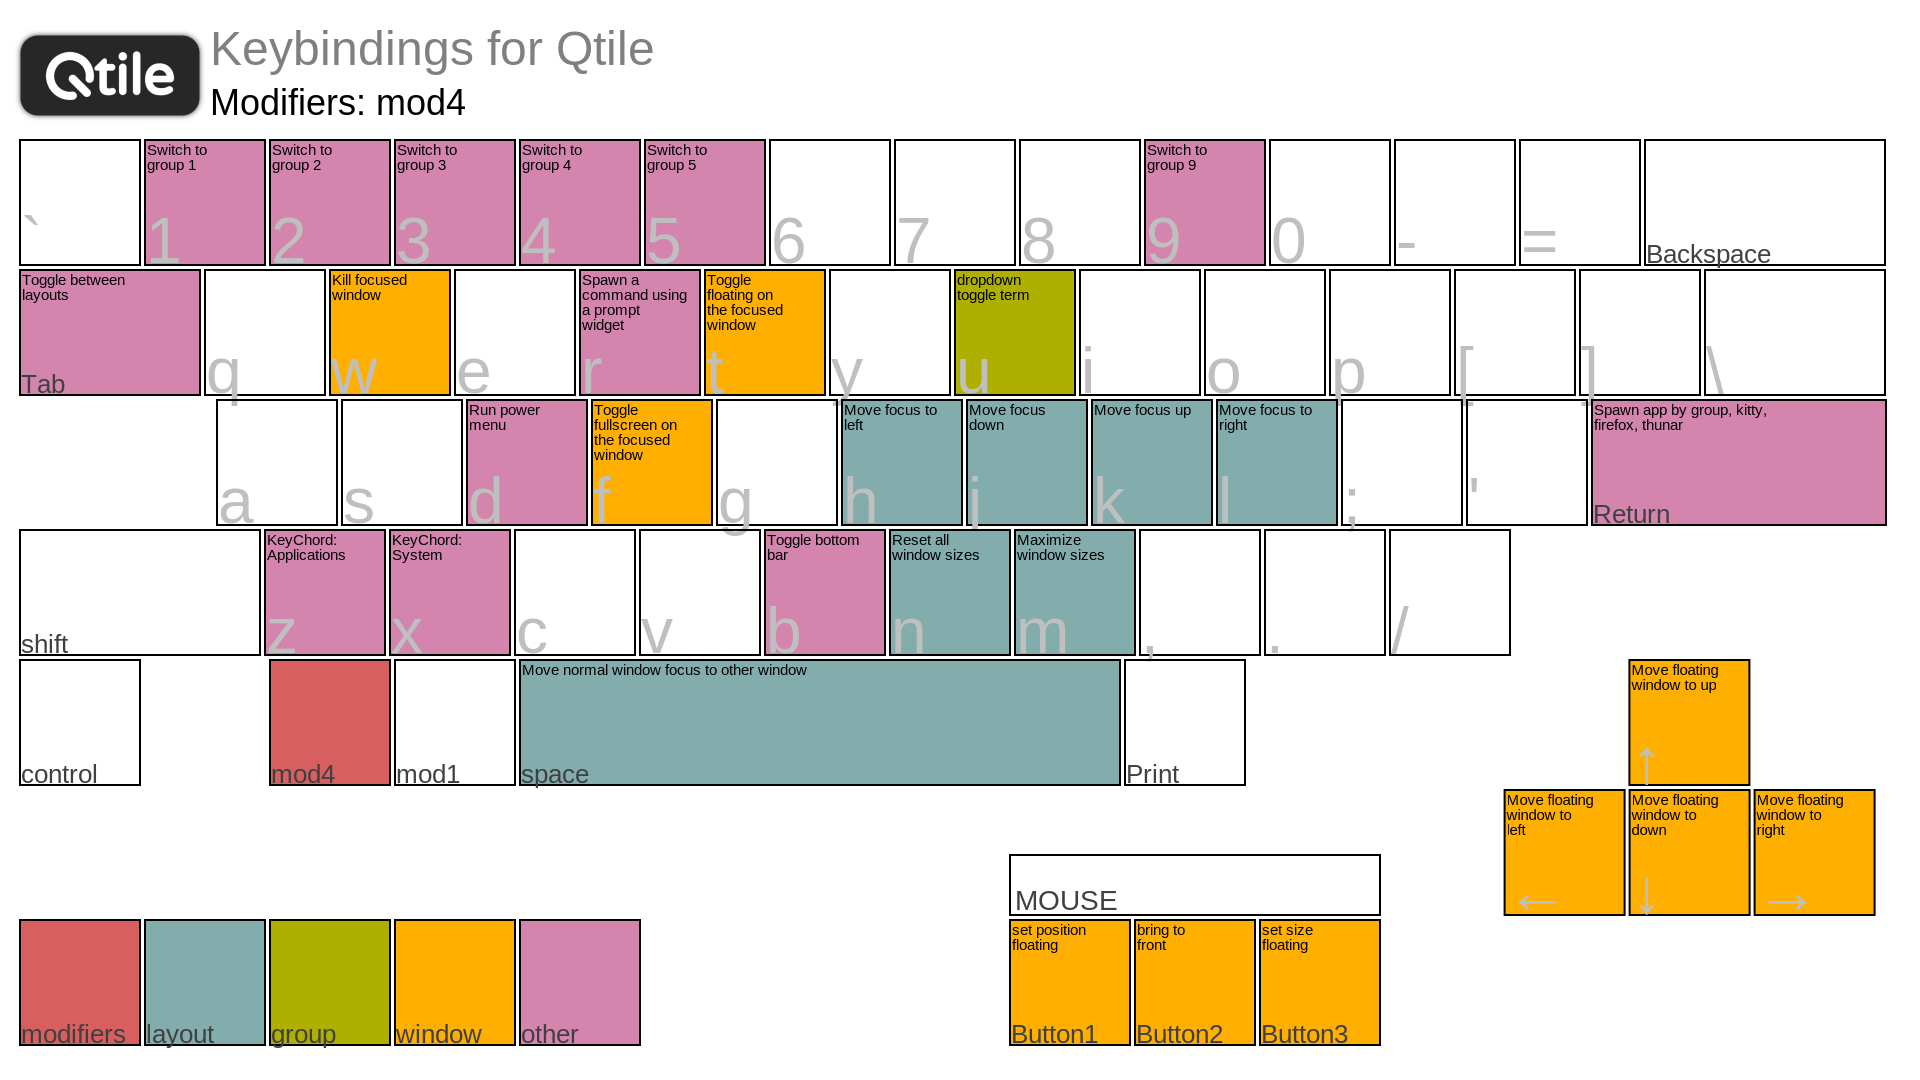
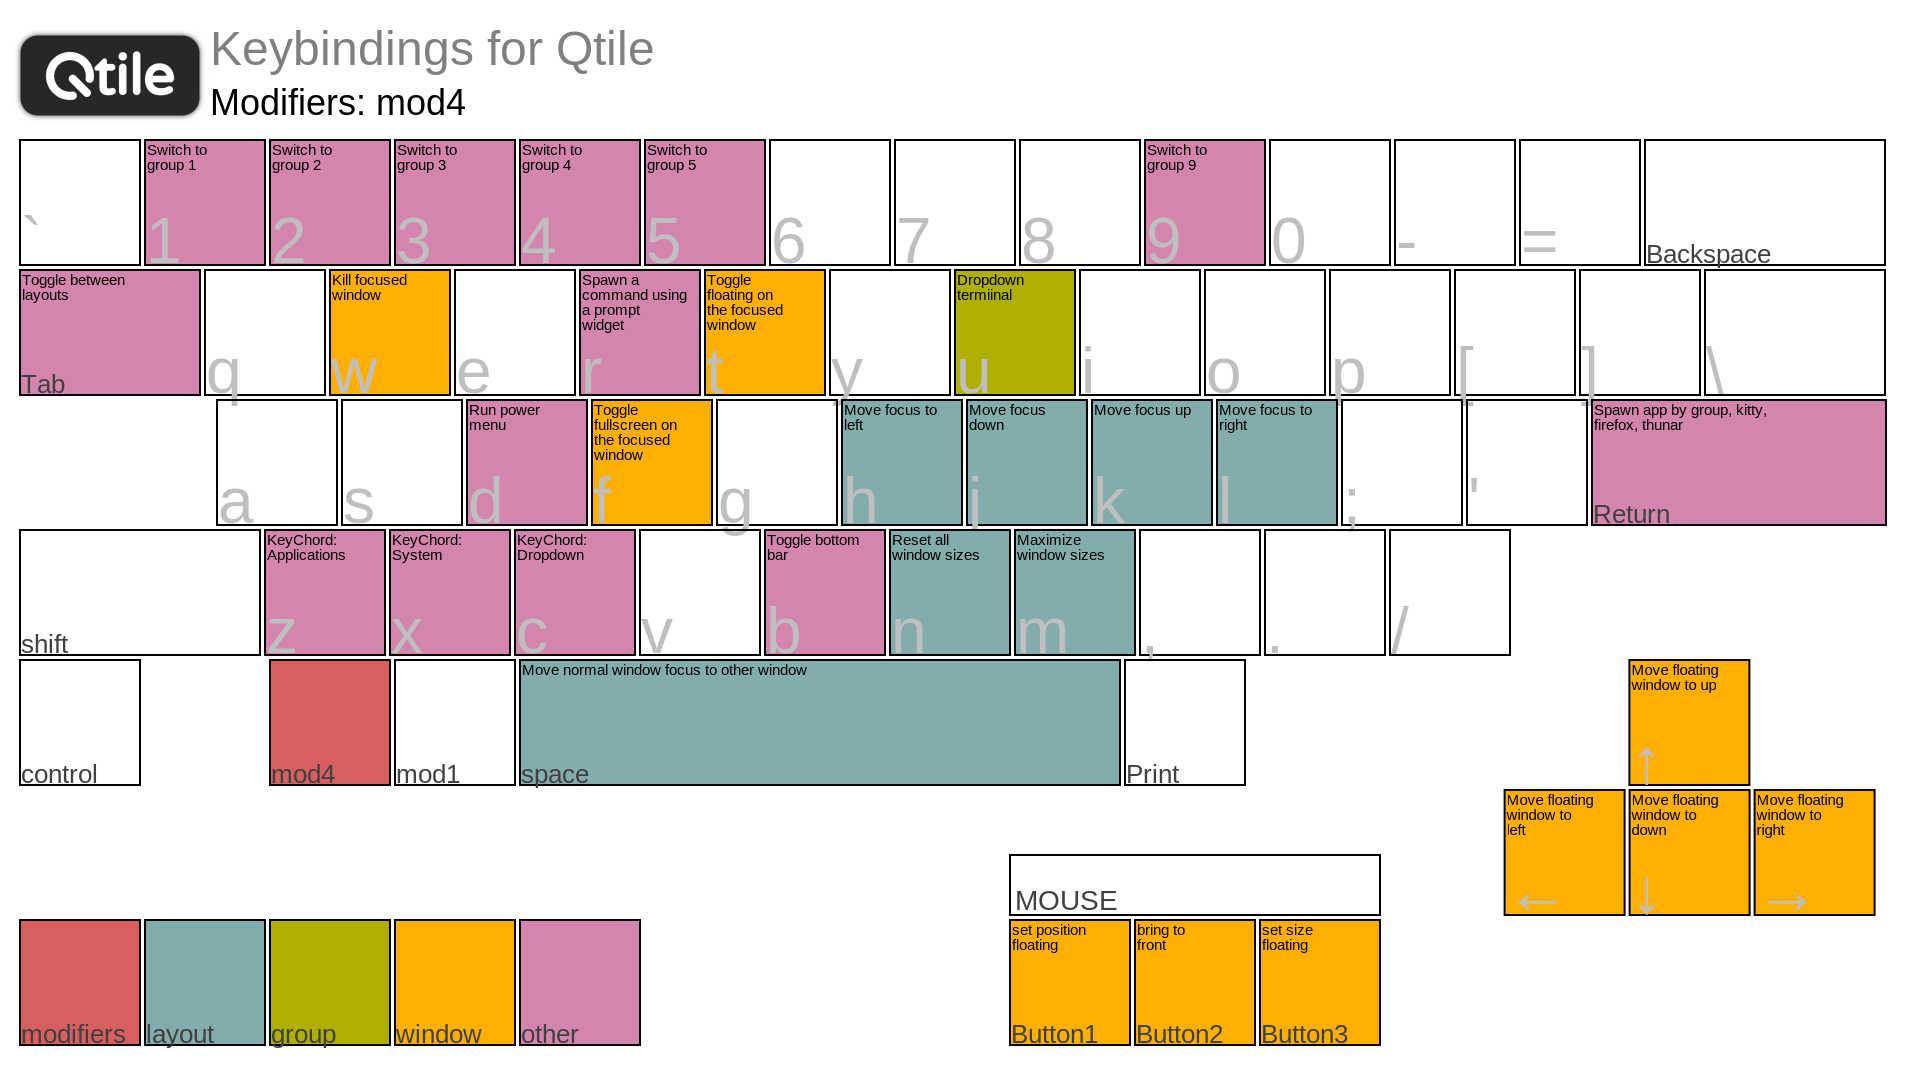
Fix Dropdown scratchpad, using KeyChord

Changed region(s): [[0.25, 0.4889, 0.3438, 0.6111], [0.5, 0.2444, 0.5312, 0.275]]

diff --git a/qtile/modules/scratchpad.py b/qtile/modules/scratchpad.py
@@ -6,7 +6,7 @@ I simply implemented this because the feature exists; I haven't decided yet whet
 https://docs.qtile.org/en/latest/manual/config/groups.html#scratchpad-and-dropdown
 """
 
-from libqtile.config import Key, Group, ScratchPad, DropDown
+from libqtile.config import Key, KeyChord, Group, ScratchPad, DropDown
 from libqtile.lazy import lazy
 
 from modules.keys import keys
@@ -28,16 +28,32 @@ groups.append(
         on_focus_lost_hide = False,
         warp_pointer = False,
         opacity = 1.0,
-      )
+      ),
+      DropDown(
+        'filer',
+        'thunar',
+        width = 0.9,
+        height = 0.7,
+        x = 0.05,
+        y = 0,
+        on_focus_lost_hide = False,
+        warp_pointer = False,
+        opacity = 1.0,
+      ),
     ]
   )
 )
 
 keys.extend([
-  # TODO: 2026-10-14
-  #   In the future, will various applications also incorporate this feature so they can be launched using KeyChord?
+  Key([MOD4], 'u', lazy.group['scratchpad'].dropdown_toggle('term'), desc = 'Dropdown termiinal'),
 
-  Key([MOD4], 'u', lazy.group['scratchpad'].dropdown_toggle('term'),),
+  KeyChord([MOD4], 'c', [
+      Key([], 't', lazy.group['scratchpad'].dropdown_toggle('term'), desc = 'Dropdown termiinal'),
+      Key([], 'f', lazy.group['scratchpad'].dropdown_toggle('filer'), desc = 'Dropdown file explorer'),
+    ],
+    mode = False,
+    name = 'Dropdown',
+  ),
 ])
 
 

diff --git a/qtile/modules/groups.py b/qtile/modules/groups.py
@@ -100,8 +100,6 @@ groups = [
       layout.Floating(**layout_setting_floating),
     ],
     matches = [
-      # TODO: Is this function not enabled when starting from Thunar?
-      # NOTE: Did it get resolved, by any chance?
       Match(wm_class = 'libreoffice-startcenter'),
       Match(wm_class = 'libreoffice'),
       Match(wm_class = 'libreoffice-writer'),

diff --git a/qtile/modules/screens_default_config.py b/qtile/modules/screens_default_config.py
@@ -66,6 +66,10 @@ chord_args = {
       Theme_Colors['Red'],
       Theme_Colors['DarkBlue_default'],
     ),
+    'Dropdown': (
+      Theme_Colors['Purple'],
+      Theme_Colors['DarkBlue_default'],
+    ),
   },
 }
 
